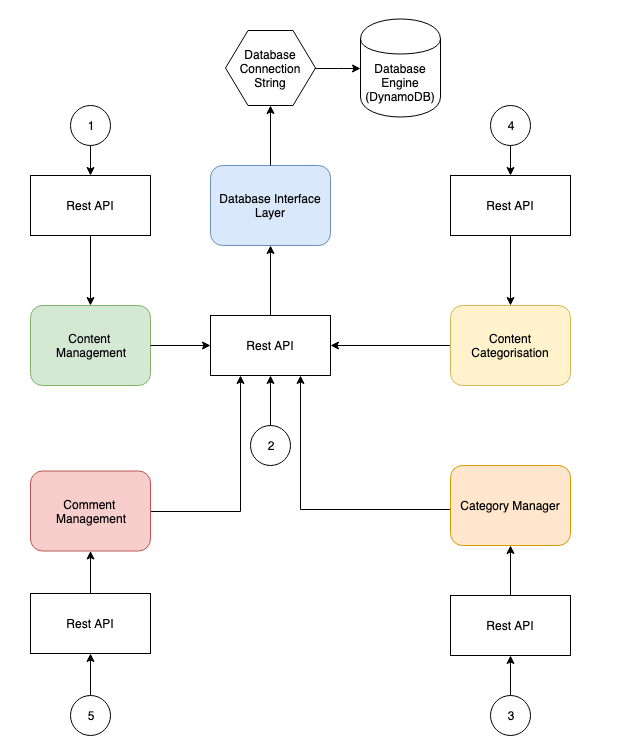
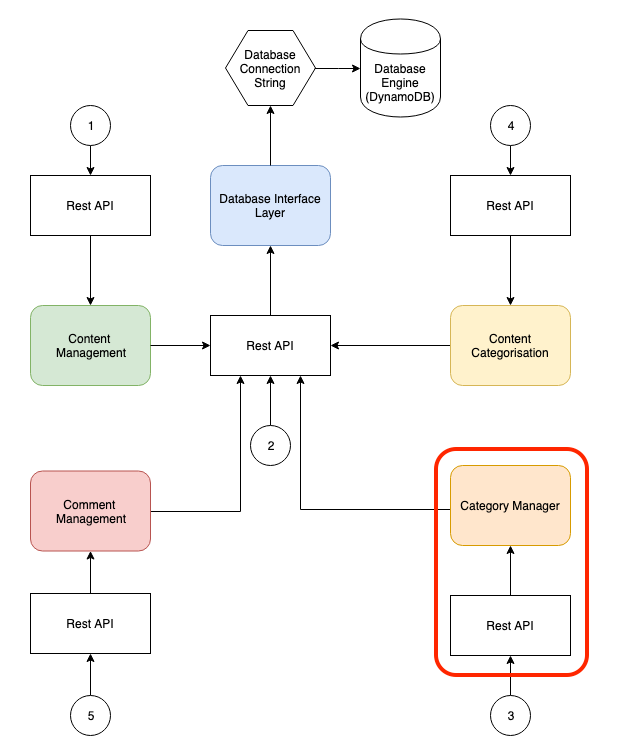
CM-27 docs(doc): Update task highlight.

Changed region(s): [[0.6624, 0.5819, 0.9334, 0.9188]]

diff --git a/README.md b/README.md
@@ -4,6 +4,8 @@
 
 Category Manager manages the input and output processes with simple validation from the frontend to the database interface layer section.
 
+See Red highlight below for the scope of this repository.
+
 ![RESTAPI.jpg](images/Content_Manager.png)
 
 ## API END POINT
